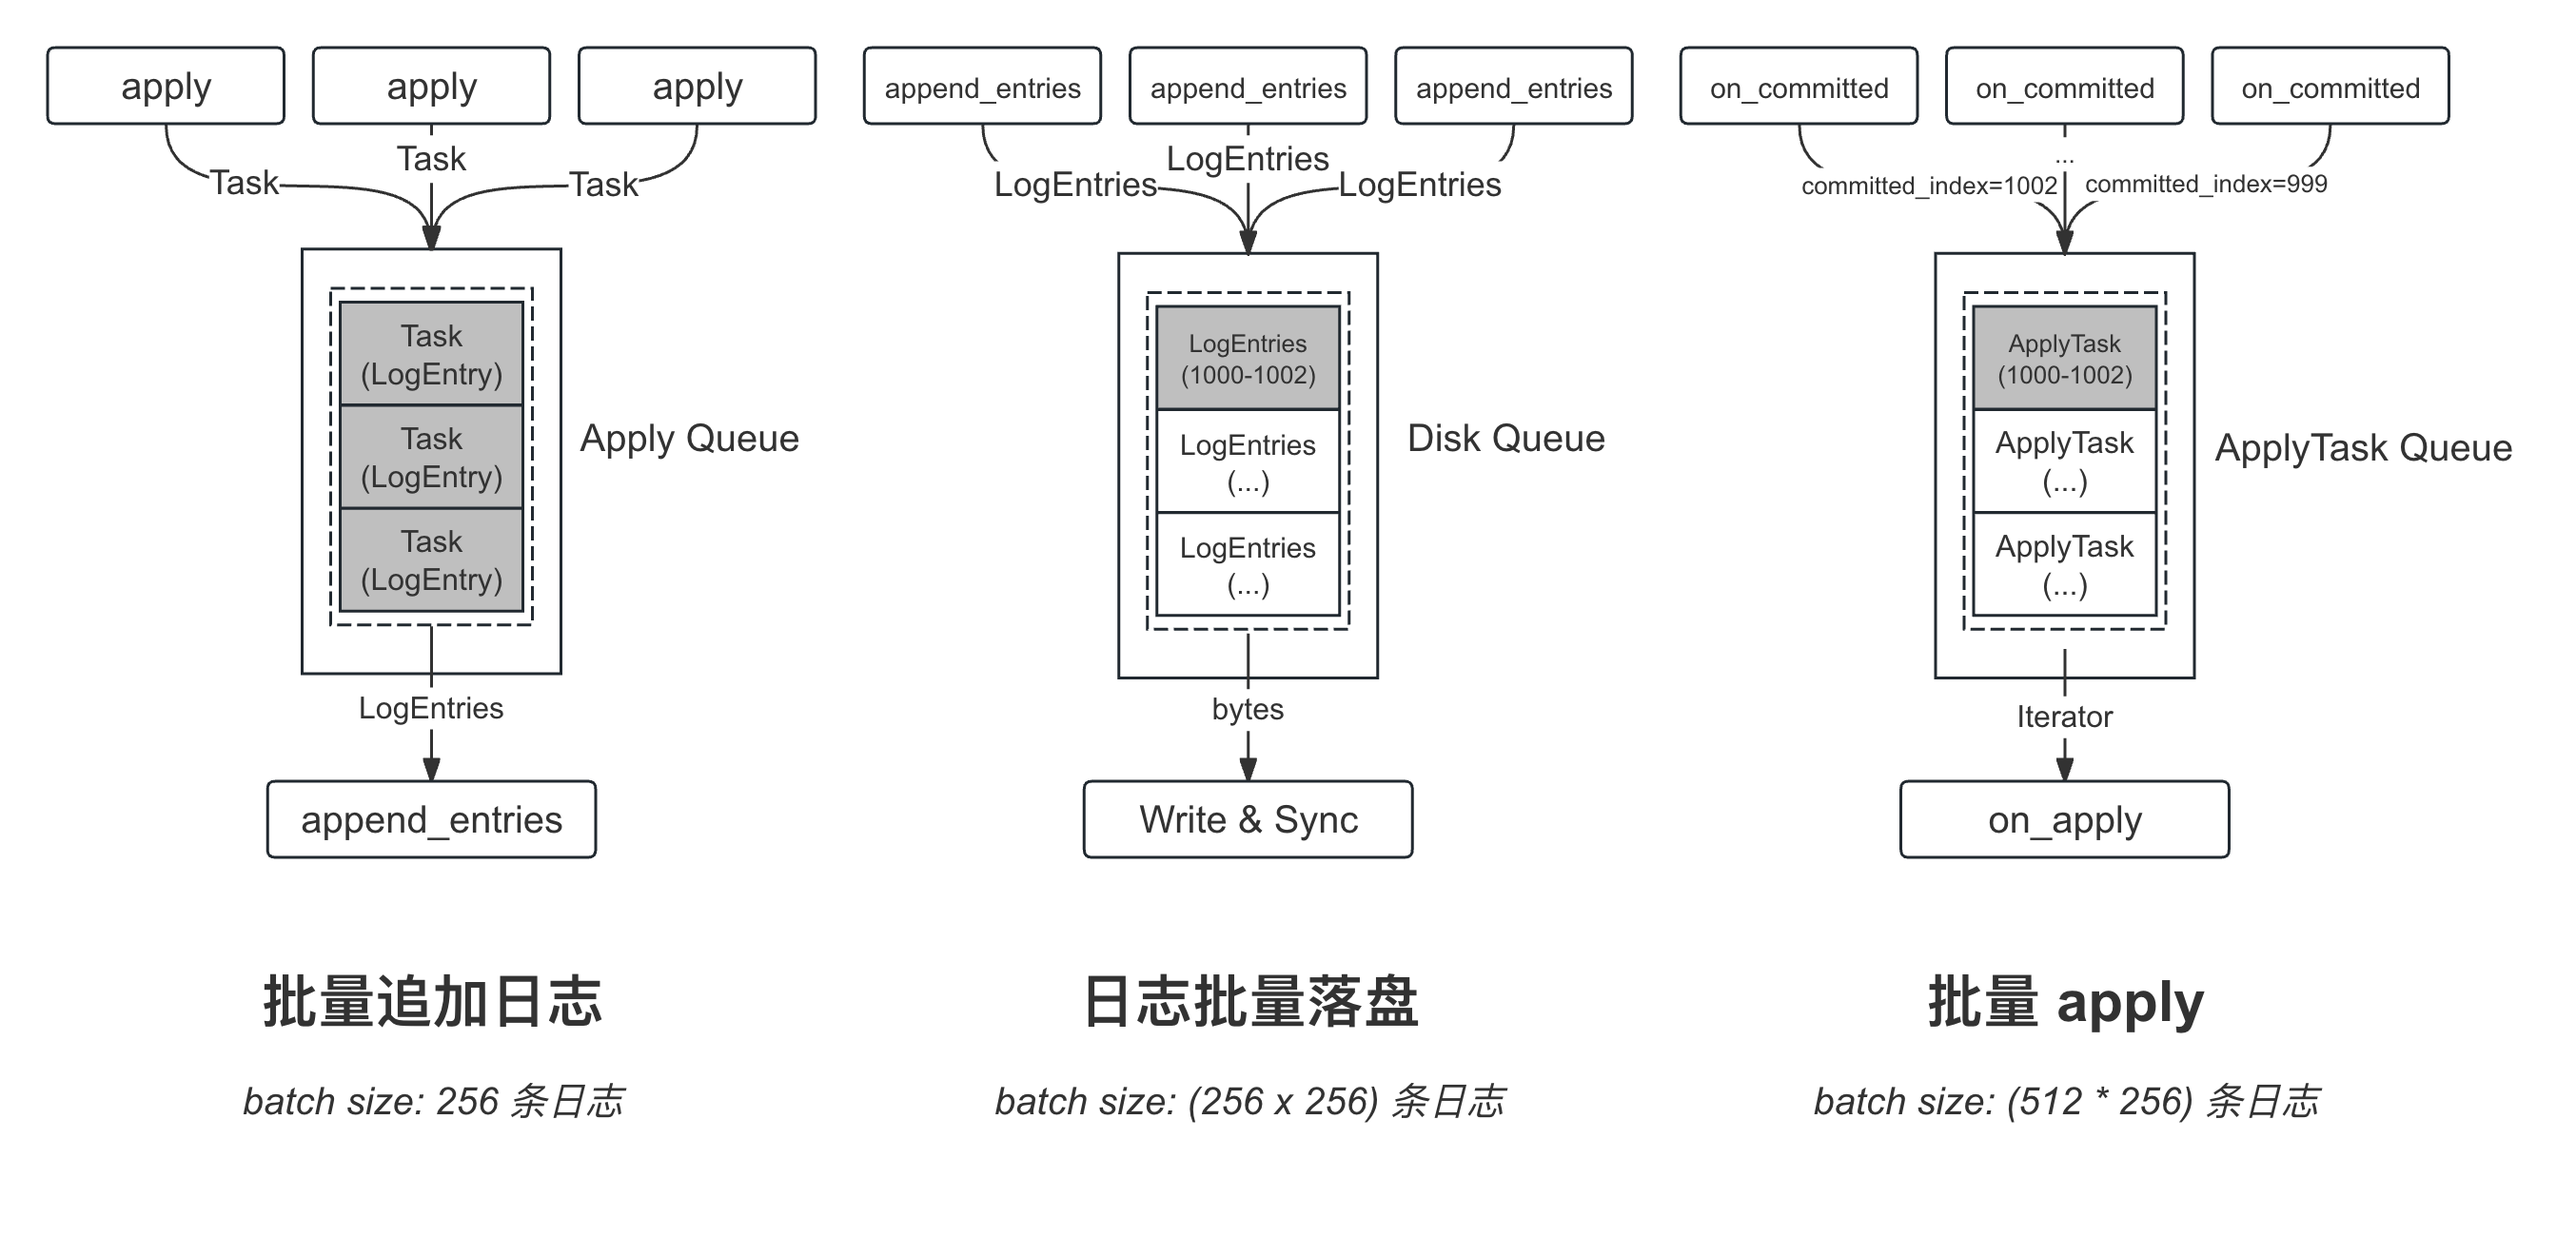
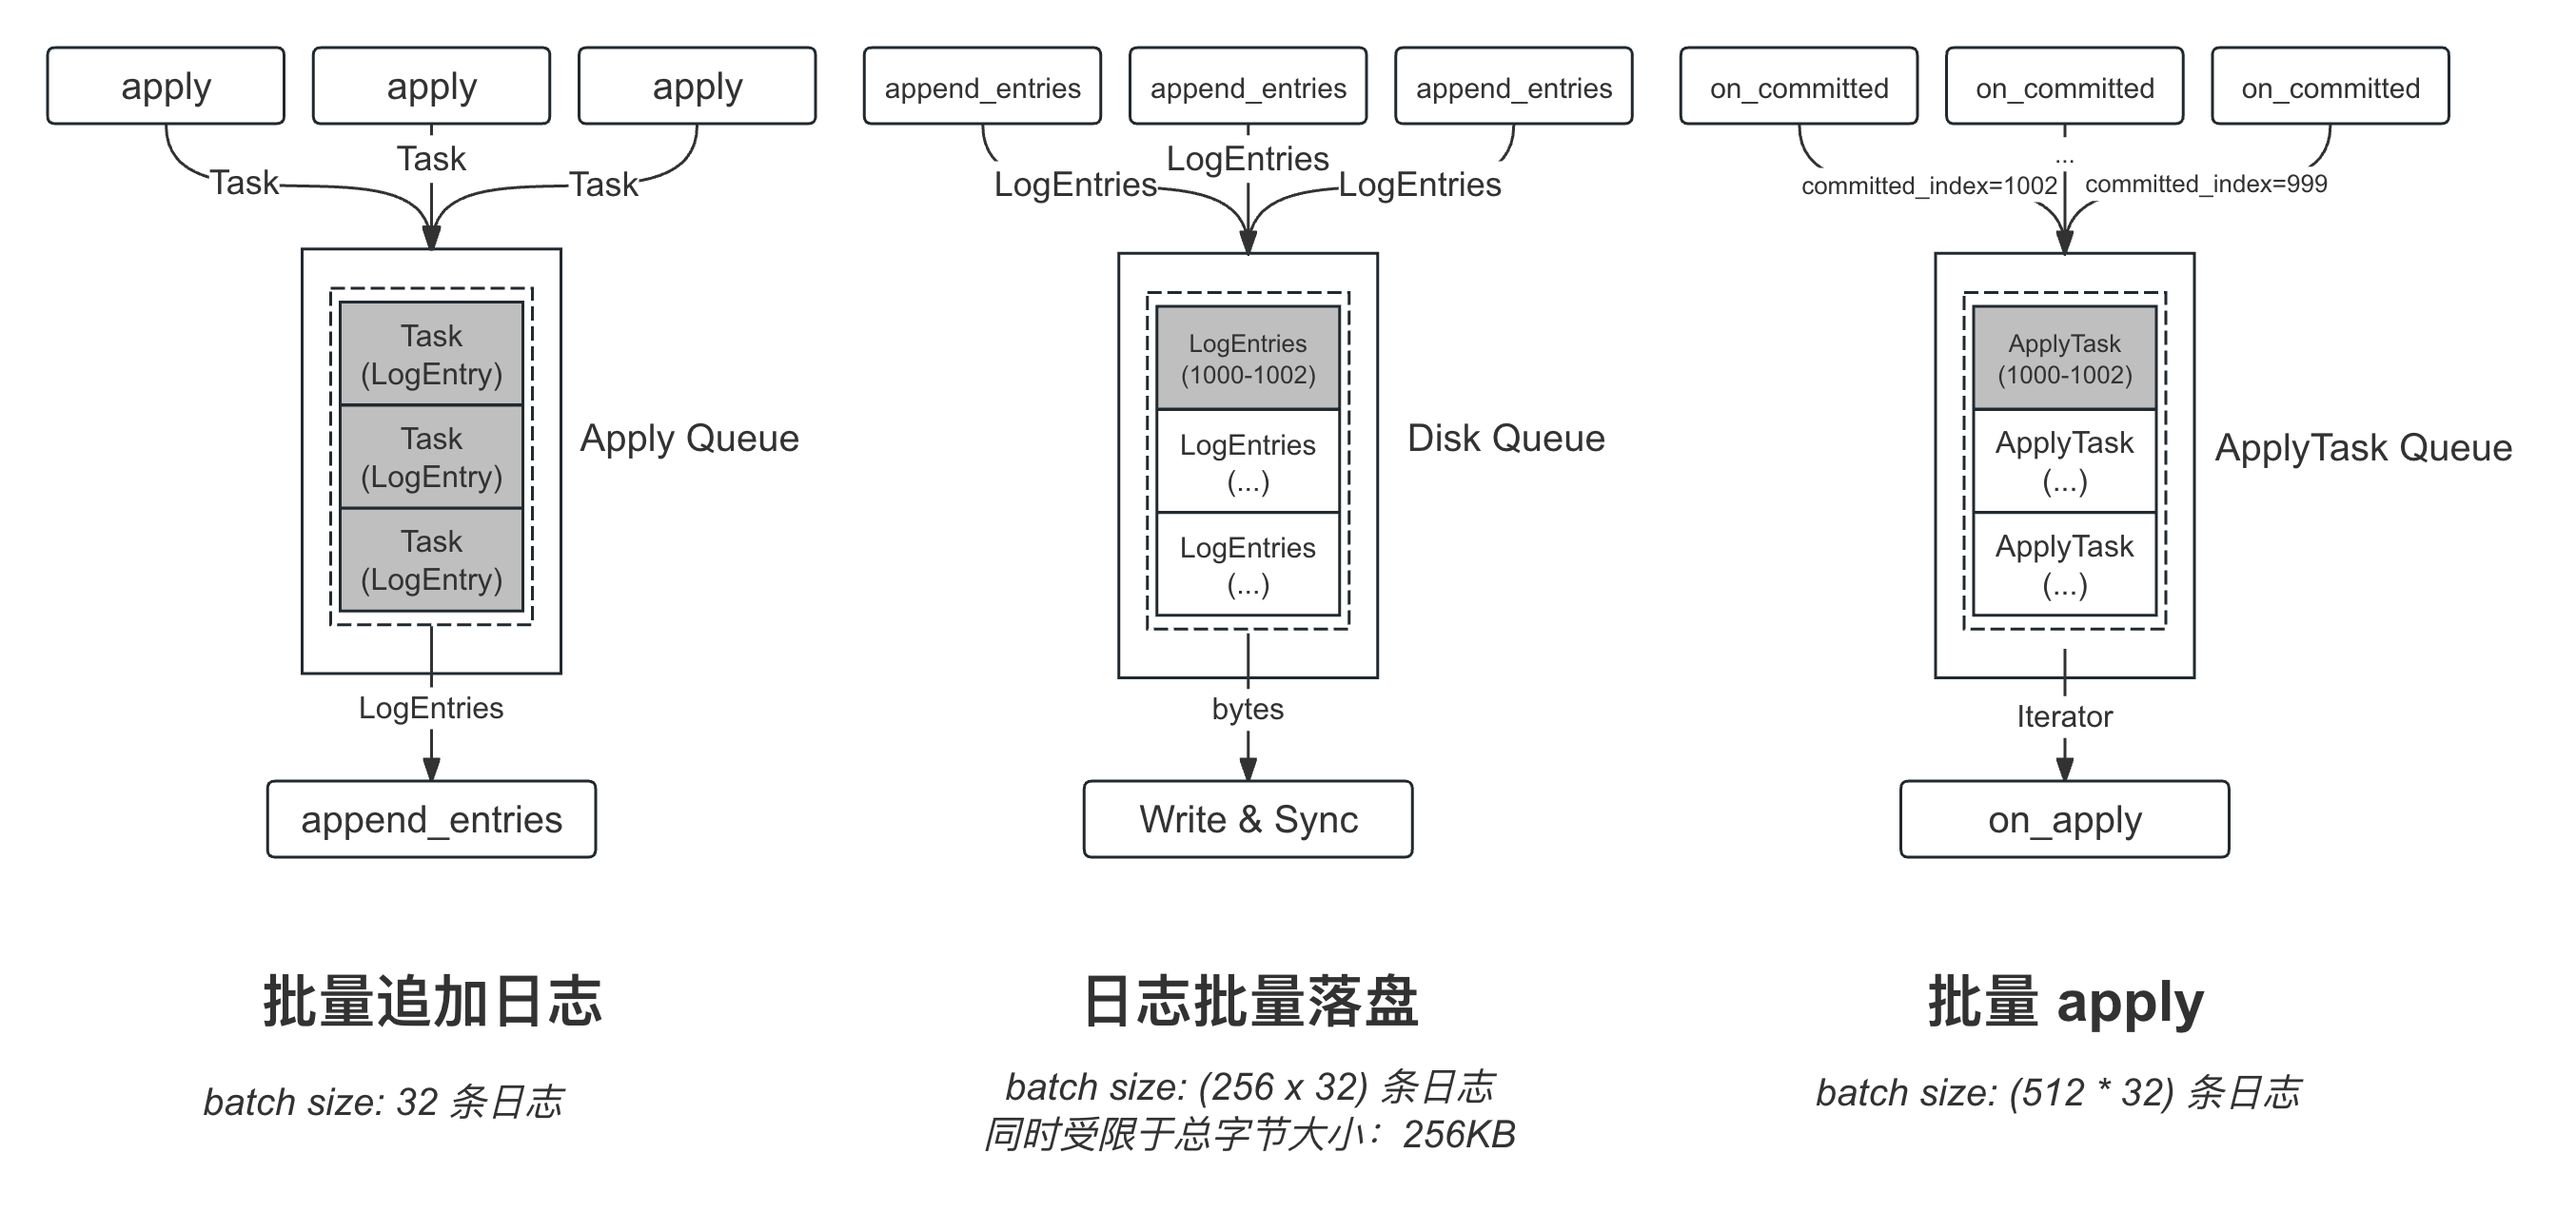
166

diff --git a/ch04/4.2/optimization.md b/ch04/4.2/optimization.md
@@ -8,18 +8,11 @@ Batch 队列
 
 从客户端调用 `apply` 接口提交 `Task` 到日志成功复制，并回调用户状态机的 `on_apply` 接口，日志依次经过了 `Apply Queue`、`Disk Queue`、`Apply Task Queue` 这 3 个队列。这些队列都是 brpc 的 [ExecutionQueue][ExecutionQueue] 实现，其消费函数都做了 `batch` 优化：
 
-* **ApplyQueue**: 用户提交的 `Task` 会进入该队列，在该队列的消费函数中会将这些 `Task` 对应的日志进行打包，并调用 `LogManager` 的 `append_entries` 函数进行追加日志，打包的日志既用于持久化，也用于复制。默认一次最多打包 256 条日志。
-* **DiskQueue**: `LogManager` 在接收到这批日志后，需对其进行持久化处理，故会往该队列中提交一个持久化任务（一个任务对应一批日志）；在该队列的消费函数中会将这些任务进行打包，将这批任务对应的所有日志写入磁盘。默认一次最多打包 256 个持久化任务，而每个任务最多包含 256 条日志，所以其一次 `Bacth Write` 最多会写入 `256 * 256` 条日志对应的数据。
-* **ApplyTaskQueue**：当日志的复制数（包含持久化）达到 `Quorum` 后，会调用 `on_committed` 往 `ApplyTaskQueue` 中提交一个 `ApplyTask`（每个任务对应一批已提交的日志）；在该队列的消费函数中会将这些 ApplyTask 打包成 `Iterator`，并作为参数回调用户状态机的 `on_apply` 函数。 默认一次最多打包 512 个 `ApplyTask`，而每个 `ApplyTask` 最多包含 256 条日志，所以每一次 `on_apply` 参数中的 `Iterator` 最多包含 `512 * 256` 条日志。
+* **ApplyQueue**: 用户提交的 `Task` 会进入该队列，在该队列的消费函数中会将这些 `Task` 对应的日志进行打包，并调用 `LogManager` 的 `append_entries` 函数进行追加日志，打包的日志既用于持久化，也用于复制。默认一次打包 32 条日志。
+* **DiskQueue**: `LogManager` 在接收到这批日志后，需对其进行持久化处理，故会往该队列中提交一个持久化任务（一个任务对应一批日志）；在该队列的消费函数中会将这些任务进行打包，将这批任务对应的所有日志写入磁盘。默认一次最多打包 256 个持久化任务，而每个任务最多包含 32 条日志，所以其一次 `Bacth Write` 最多会写入 `256 * 32 = 8192` 条日志对应的数据。当然其也受字节数限制，默认每次 `Batch Write` 最多写入 `256KB`。
+* **ApplyTaskQueue**：当日志的复制数（包含持久化）达到 `Quorum` 后，会调用 `on_committed` 往 `ApplyTaskQueue` 中提交一个 `ApplyTask`（每个 `ApplyTask` 对应一批已提交的日志）；在该队列的消费函数中会将这些 `ApplyTask` 打包成 `Iterator`，并作为参数回调用户状态机的 `on_apply` 函数。 默认一次最多打包 512 个 `ApplyTask`，而每个 `ApplyTask` 最多包含 32 条日志，所以每一次 `on_apply` 参数中的 `Iterator` 最多包含 `512 * 32 = 16672` 条日志。
 
 从以上看出，日志的复制、持久化、应用，全链路都是经过 `Batch` 优化的。
-
-相关配置
----
-
-| 作用队列 |
-
-[ExecutionQueue]: https://brpc.apache.org/docs/bthread/execution-queue
 
 > **Follower 的 Batch**
 >
@@ -27,6 +20,22 @@ Batch 队列
 > * **ApplyQueue**: Follower 不会接受用户提交的日志（`Task`），其批量日志来源于 Leader 的复制
 > * **DiskQueue**: 日志批量落盘的逻辑是一样的，Follower 在接收到 Leader 的一批日志之后也是直接调用 `LogManager` 的 `append_entries` 函数
 > * **ApplyTaskQueue**: 批量 `on_apply` 的逻辑是一样的，区别在于 Follower 的 `commitIndex` 来源于 Leader 在 RPC 中携带的 `commitIndex`，并非通过自身的 `Quorum` 计算
+
+相关配置
+---
+
+当然，框架也提供了一些配置项来调整这些 `Batch` 大小：
+
+| 作用队列       | 配置项                         | 默认值   | 说明                                                                              |
+|:---------------|:-------------------------------|:---------|:----------------------------------------------------------------------------------|
+| ApplyQueue     | `raft_apply_batch`             | 32       | 该打包大小影响持久化、落盘以及`on_apply`；上限为 512                              |
+| DiskQueue      | `raft_max_append_buffer_size`  | `256 KB` | 每次 `Batch Write` 最大的字节数                                                   |
+| ApplyTaskQueue | `raft_fsm_caller_commit_batch` | 512      | 每次 `on_apply` 的最大日志数为 `raft_apply_batch * raft_fsm_caller_commit_batch ` |
+
+
+[ExecutionQueue]: https://brpc.apache.org/docs/bthread/execution-queue
+
+
 
 具体实现
 ---
@@ -94,6 +103,7 @@ public:
 
     void append(LogManager::StableClosure* done) {
         // FLAGS_raft_max_append_buffer_size 默认为 256KB
+        // 一次 Batch Write 写入的字节数不能超过该配置值
         if (_size == _cap ||
                 _buffer_size >= (size_t)FLAGS_raft_max_append_buffer_size) {
             flush();
@@ -140,6 +150,7 @@ int FSMCaller::run(void* meta, bthread::TaskIterator<ApplyTask>& iter) {
     return 0;
 }
 
+// 生产 Iterator，调用用户状态机的 `on_apply`
 void FSMCaller::do_committed(int64_t committed_index) {
     ...
     IteratorImpl iter_impl(_fsm, _log_manager, &closure, first_closure_index,
